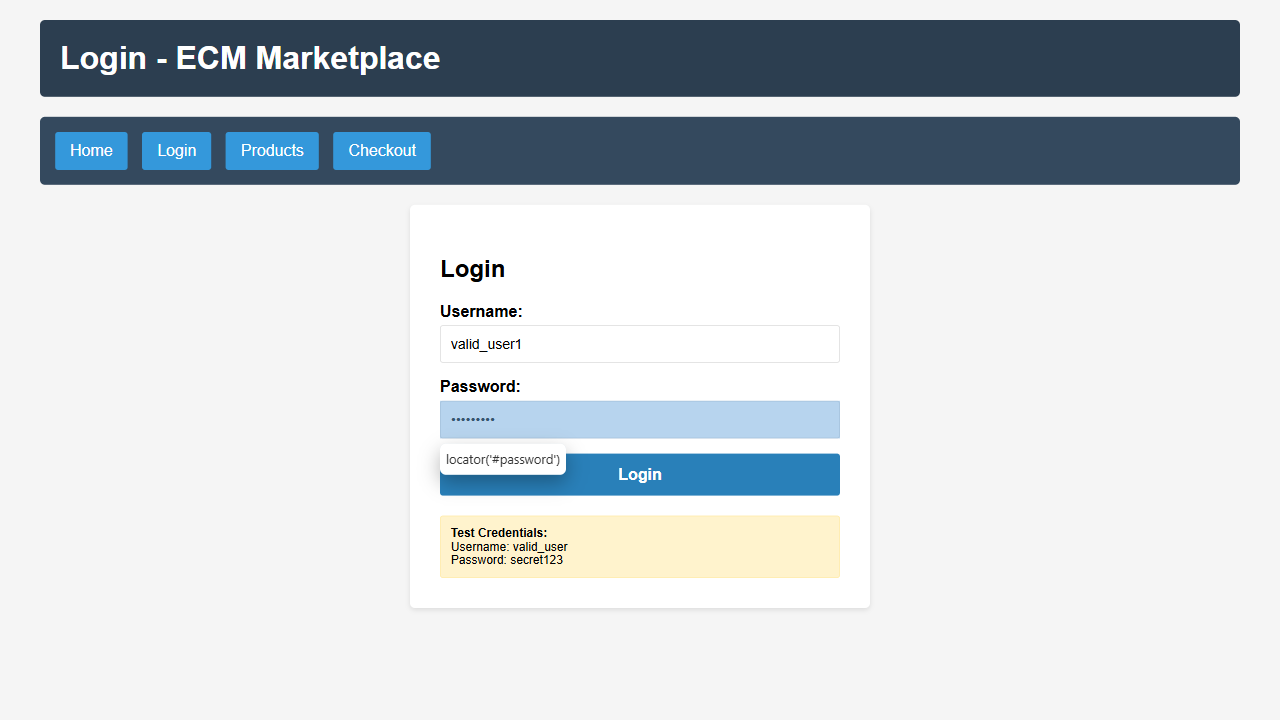
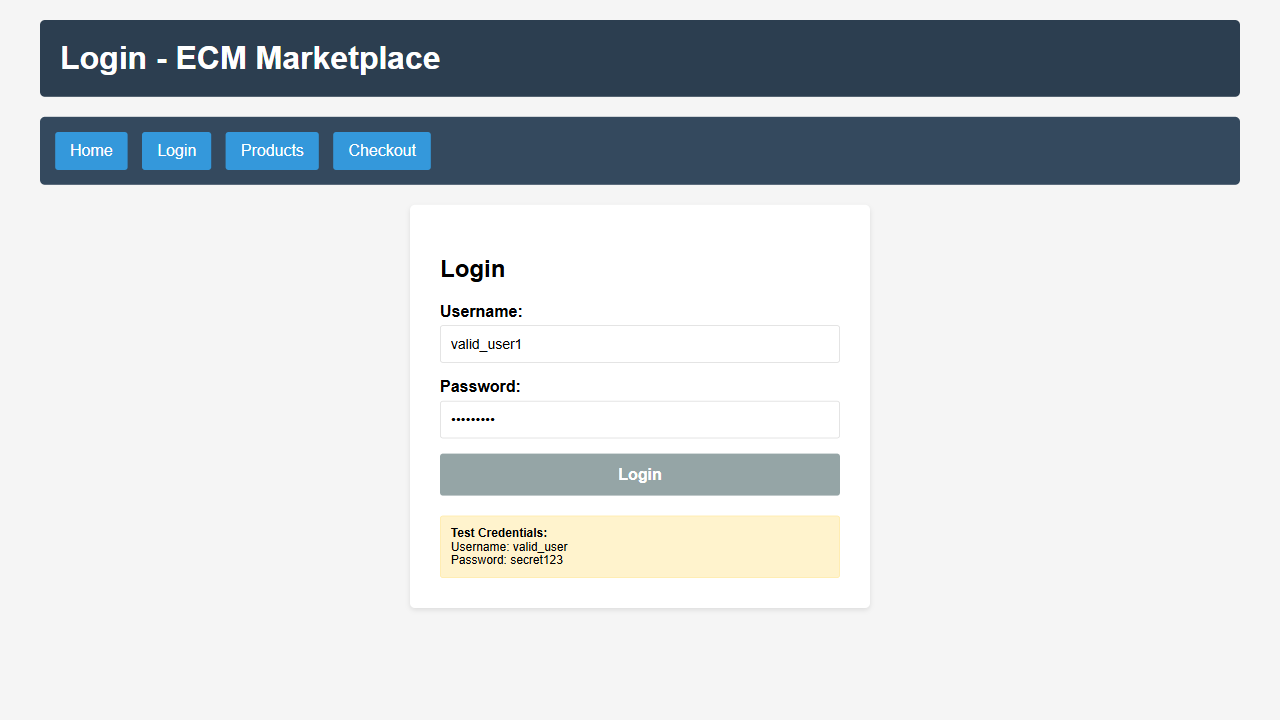
localstorage

Changed region(s): [[0.3438, 0.55, 0.6562, 0.7028]]

diff --git a/playwright-report/index.html b/playwright-report/index.html
@@ -87,4 +87,4 @@ Error generating stack: `+l.message+`
     <div id='root'></div>
   </body>
 </html>
[2 lines of base64/hex data omitted]

diff --git a/tests/FrontEnd/login.spec.ts b/tests/FrontEnd/login.spec.ts
@@ -27,6 +27,8 @@ test.describe.parallel('Login', () => {
         await page.screenshot({path: "Evidencias/login/LoginProductsErradoUsuario.png"});
         const status = await page.locator('#btnLogin').click();
         await page.screenshot({path: "Evidencias/login/LoginProductsErradoUsuarioSemMensagemErro.png"});
+
+
         
     });
 
@@ -39,6 +41,28 @@ test.describe.parallel('Login', () => {
         await page.locator('#btnLogin').click();
         await page.screenshot({path: "Evidencias/login/LoginProductsErradoPasswordSemMensagemErro.png"});
         
+    });
+test('login localstorage', async ({ page }) => {
+
+    const navigationPage = new NavegationPage(page);
+    await navigationPage.loginPage();
+
+    await page.evaluate(() => {
+        localStorage.setItem('username', 'valid_user');
+        localStorage.setItem('password', 'secret123');
+
+    });
+    const username = await page.evaluate(() => localStorage.getItem('username'));
+    username?.toString();
+    const password = await page.evaluate(() => localStorage.getItem('password'));
+    password?.toString();
+
+
+    await page.getByLabel('Username:').fill(username);
+    await page.getByLabel('Password:').fill(password);   
+    await page.screenshot({path: "Evidencias/login/localsotage/LoginlocalstoragePreenchido.png"});
+    await page.locator('#btnLogin').click();
+    await page.screenshot({path: "Evidencias/login/localsotage/LoginlocalstorageClicado.png"});   
     });
 
 });
